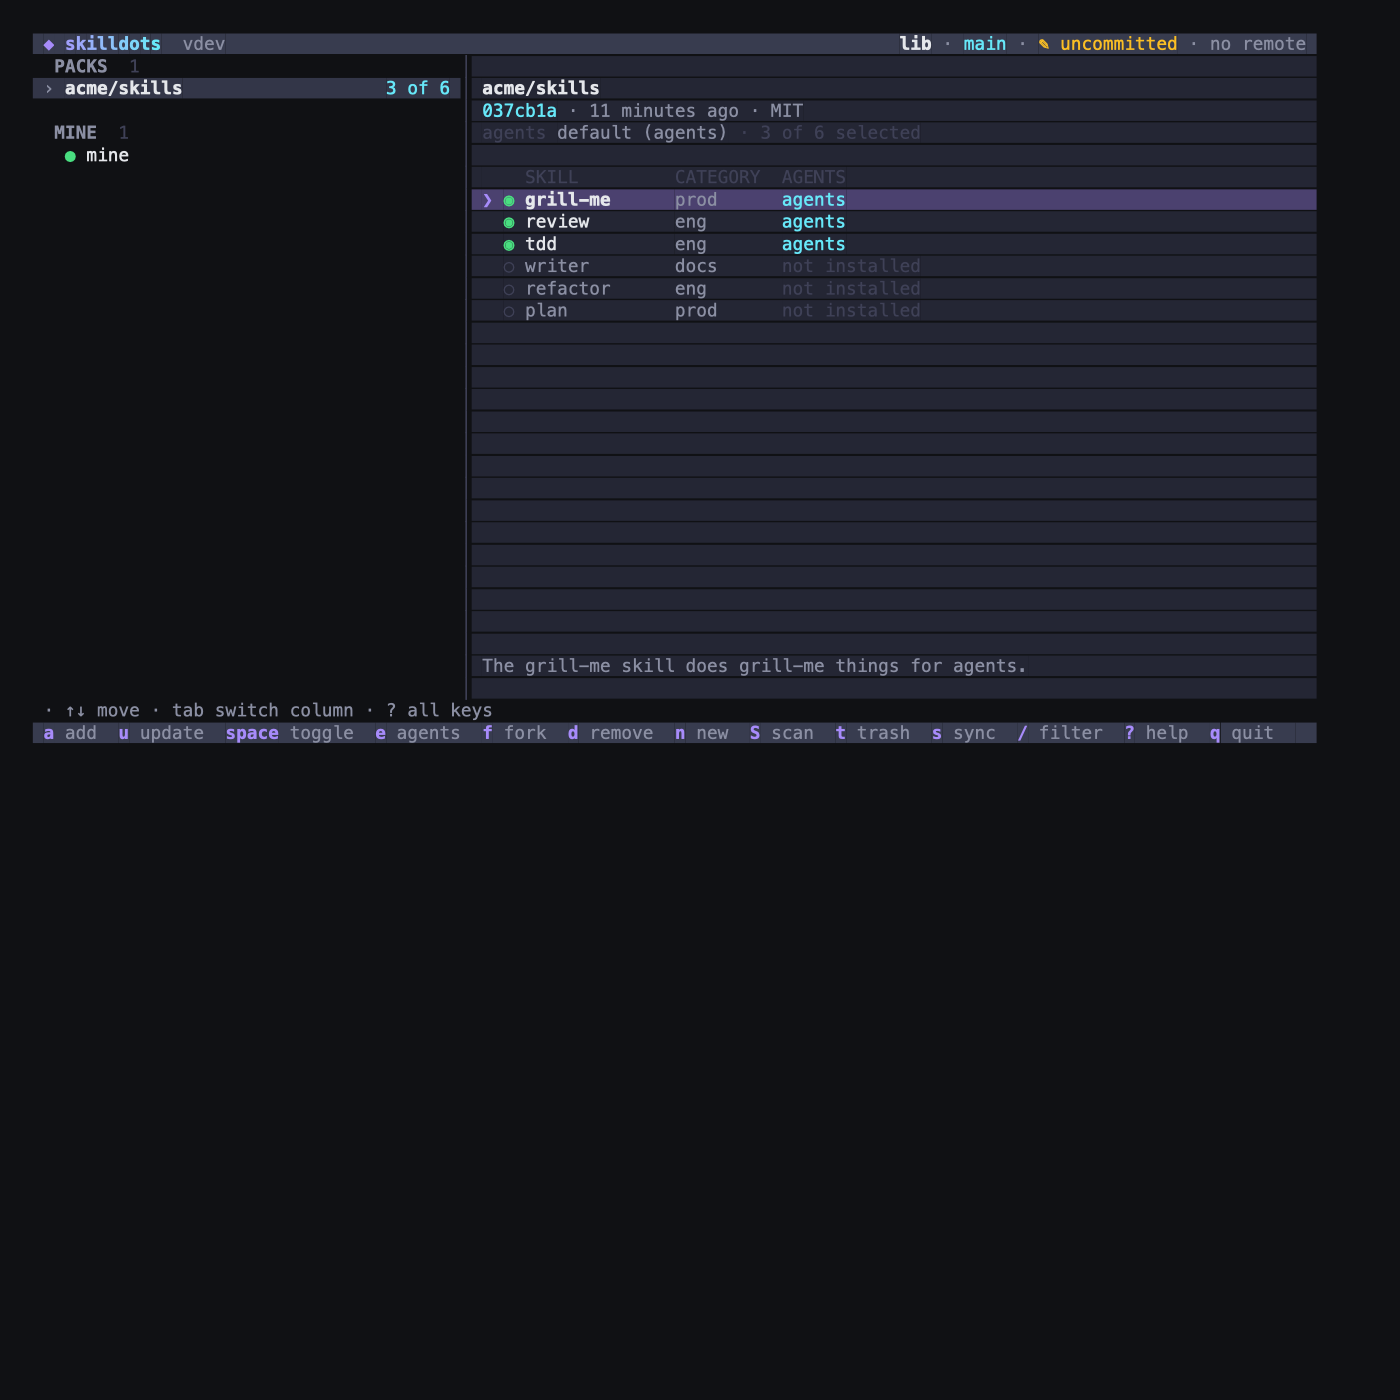
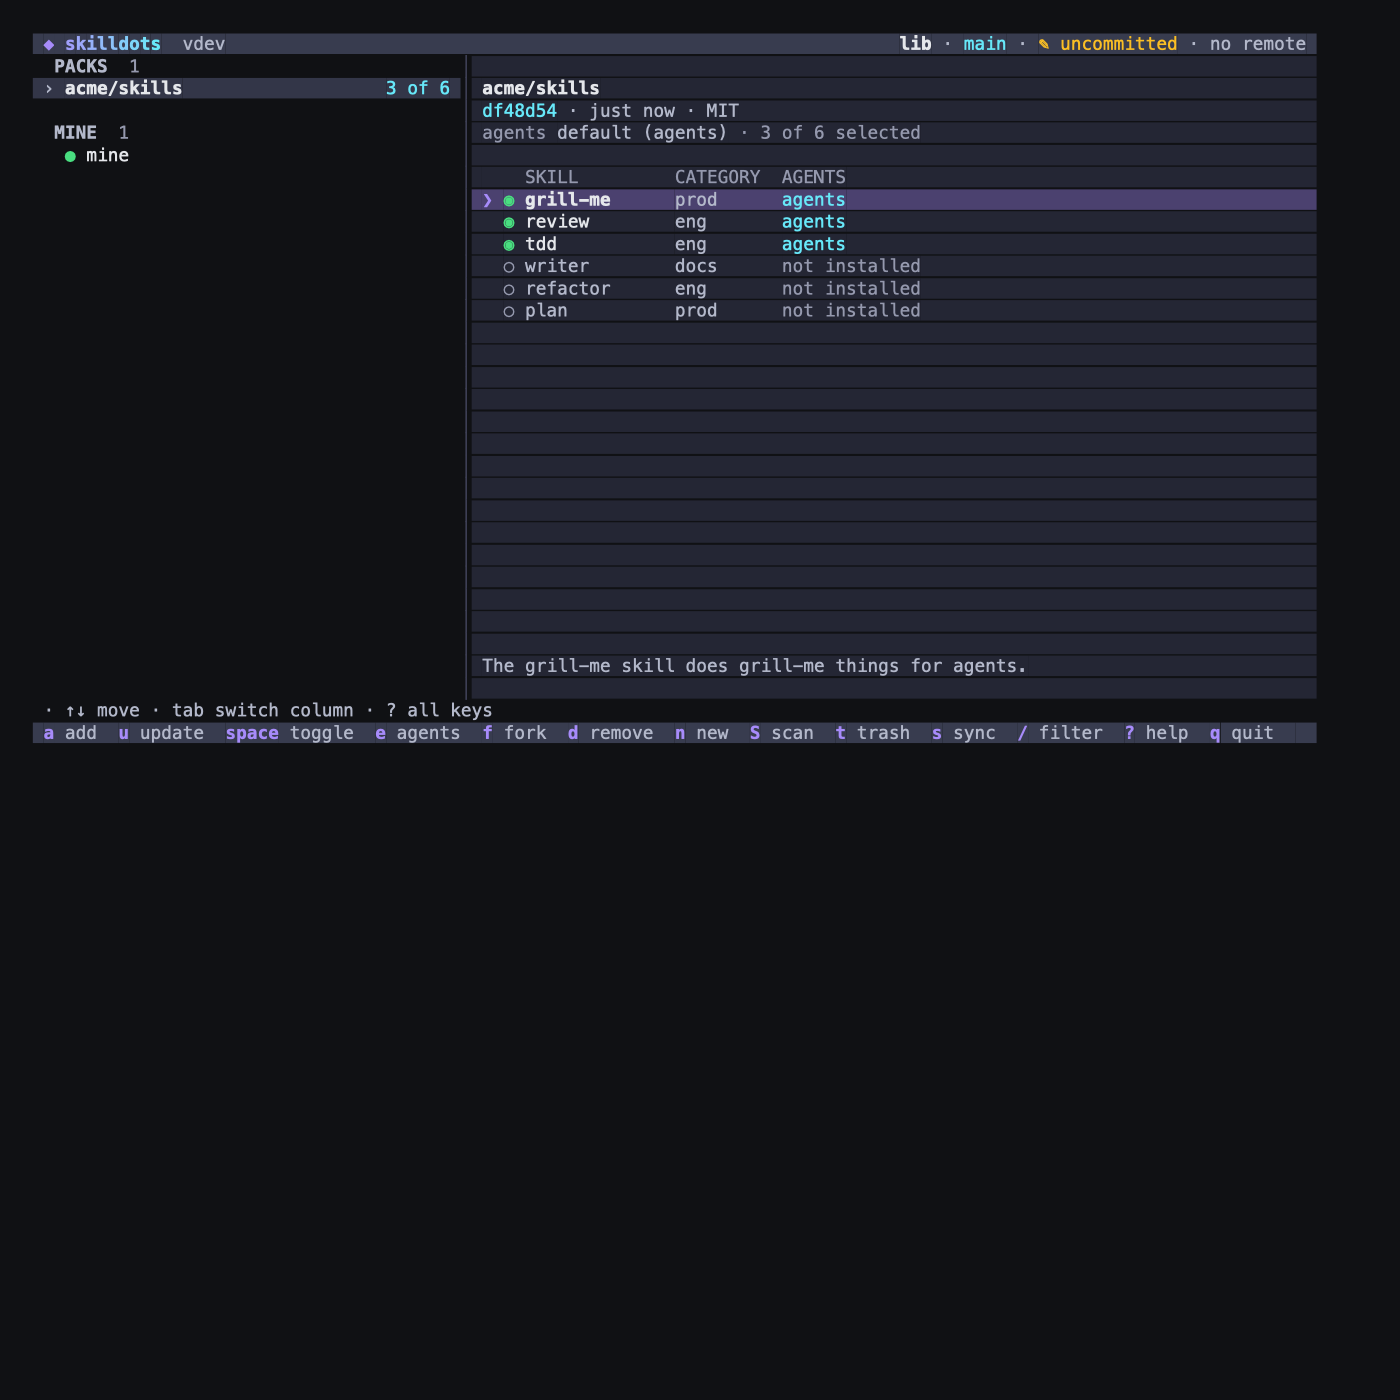
fix(theme): make muted and faint text readable in both palettes
Faint text measured 1.1-1.7:1 on the dark dashboard and 1.9-2.4:1 on
white; dark Muted fell to 2.9:1 on the selection. Borders, dividers and
the surface tint get their own Line colour (the old Faint values, so
the layers look the same), Muted and Faint become text-only colours of
at least 4.5:1 on every background they are drawn on, and highlighted
rows draw Faint as Muted. TestPaletteContrast checks this and the
Text > Muted > Faint order. Screenshots re-exported.

diff --git a/internal/tui/theme.go b/internal/tui/theme.go
@@ -14,7 +14,13 @@ import (
 // colours from internal/cli/ui.go so the dashboard, the huh menu and the
 // plain commands look like one product; tui never defines its own palette.
 type Theme struct {
+	// Text, Muted and Faint are text in decreasing importance; all three
+	// are readable (4.5:1) on every background below, except Faint on a
+	// highlighted row, which is drawn as Muted (see lift).
 	Accent, Cyan, Muted, Faint, OK, Warn, Err, Text lipgloss.Color
+	// Line is for what is not text: dividers, borders, and the tint the
+	// surfaces are mixed from.
+	Line lipgloss.Color
 	// Ink is the background end of the palette (text on accent buttons in
 	// the CLI theme): the darkest tone of a dark palette, the lightest of a
 	// light one. It anchors the surface shades below.
@@ -23,7 +29,7 @@ type Theme struct {
 	Light bool
 }
 
-// surfaces are derived from the palette: Ink tinted towards Faint or
+// surfaces are derived from the palette: Ink tinted towards Line or
 // Accent, so layers read as depth rather than as new colours.
 type surfaces struct {
 	bar, panel, sel, selDim, modal lipgloss.Color
@@ -38,23 +44,30 @@ func blend(a, b lipgloss.Color, t float64) lipgloss.Color {
 	return lipgloss.Color(ca.BlendLab(cb, t).Clamped().Hex())
 }
 
+// Backgrounds lists every background the dashboard puts text on: the
+// terminal's (taken to be Ink) and the derived surfaces.
+func (t Theme) Backgrounds() map[string]lipgloss.Color {
+	s := t.surfaces()
+	return map[string]lipgloss.Color{"ink": t.Ink, "bar": s.bar, "panel": s.panel, "sel": s.sel, "selDim": s.selDim, "modal": s.modal}
+}
+
 func (t Theme) surfaces() surfaces {
 	if t.Light {
-		// On white, a little of Faint already reads as a layer.
+		// On white, a little of Line already reads as a layer.
 		return surfaces{
-			bar:    blend(t.Ink, t.Faint, 0.40),
-			panel:  blend(t.Ink, t.Faint, 0.12),
+			bar:    blend(t.Ink, t.Line, 0.40),
+			panel:  blend(t.Ink, t.Line, 0.12),
 			sel:    blend(t.Ink, t.Accent, 0.16),
-			selDim: blend(t.Ink, t.Faint, 0.28),
-			modal:  blend(t.Ink, t.Faint, 0.24),
+			selDim: blend(t.Ink, t.Line, 0.28),
+			modal:  blend(t.Ink, t.Line, 0.24),
 		}
 	}
 	return surfaces{
-		bar:    blend(t.Ink, t.Faint, 0.85),
-		panel:  blend(t.Ink, t.Faint, 0.30),
+		bar:    blend(t.Ink, t.Line, 0.85),
+		panel:  blend(t.Ink, t.Line, 0.30),
 		sel:    blend(t.Ink, t.Accent, 0.38),
-		selDim: blend(t.Ink, t.Faint, 0.70),
-		modal:  blend(t.Ink, t.Faint, 0.55),
+		selDim: blend(t.Ink, t.Line, 0.70),
+		modal:  blend(t.Ink, t.Line, 0.55),
 	}
 }
 
@@ -67,7 +80,20 @@ type seg struct {
 	bold bool
 }
 
-func sg(s string, fg lipgloss.Color) seg  { return seg{s: s, fg: fg} }
+func sg(s string, fg lipgloss.Color) seg { return seg{s: s, fg: fg} }
+
+// lift is segs as drawn on a highlighted row (sel, selDim): Faint text
+// would not stand out from the highlight, so it is drawn as Muted.
+func lift(t Theme, segs []seg) []seg {
+	out := make([]seg, len(segs))
+	for i, s := range segs {
+		if s.fg == t.Faint {
+			s.fg = t.Muted
+		}
+		out[i] = s
+	}
+	return out
+}
 func sgb(s string, fg lipgloss.Color) seg { return seg{s: s, fg: fg, bold: true} }
 
 func segWidth(segs []seg) (n int) {

diff --git a/internal/cli/ui.go b/internal/cli/ui.go
@@ -27,7 +27,13 @@ func init() {
 // capabilities and disables colour when stdout is not a terminal or
 // NO_COLOR is set.
 type palette struct {
+	// Text, Muted and Faint are text in decreasing importance, each at
+	// least 4.5:1 on Ink and on the dashboard's surfaces (Faint only where
+	// it is drawn; TestPaletteContrast checks).
 	Accent, Cyan, Muted, Faint, OK, Warn, Err, Text lipgloss.Color
+	// Line is for what is not text: borders, dividers, the surfaces'
+	// tint and the unfocused button.
+	Line lipgloss.Color
 	// Ink is the background end of the scheme: text on accent buttons,
 	// and the base the dashboard derives its surfaces from.
 	Ink   lipgloss.Color
@@ -35,11 +41,10 @@ type palette struct {
 }
 
 var (
-	darkPalette = palette{Accent: "#A78BFA", Cyan: "#67E8F9", Muted: "#8B8FA3", Faint: "#3F4257",
+	darkPalette = palette{Accent: "#A78BFA", Cyan: "#67E8F9", Muted: "#B4B8CA", Faint: "#9599AE", Line: "#3F4257",
 		OK: "#4ADE80", Warn: "#FBBF24", Err: "#F87171", Text: "#E5E7EB", Ink: "#1A1B26"}
-	// Same hues, dark enough to read on white (each at least 4.5:1 except
-	// Faint, which is for what may be skipped).
-	lightPalette = palette{Accent: "#6D28D9", Cyan: "#0E7490", Muted: "#5B6072", Faint: "#A3A7B8",
+	// Same hues, dark enough to read on white.
+	lightPalette = palette{Accent: "#6D28D9", Cyan: "#0E7490", Muted: "#4A4F62", Faint: "#62677B", Line: "#A3A7B8",
 		OK: "#15803D", Warn: "#B45309", Err: "#B91C1C", Text: "#1E2030", Ink: "#FFFFFF", Light: true}
 )
 
@@ -64,7 +69,7 @@ func usePalette(p palette) {
 	sErr = lipgloss.NewStyle().Foreground(cErr)
 	sHead = lipgloss.NewStyle().Foreground(cMuted).Bold(true)
 	sBrand = lipgloss.NewStyle().Bold(true).Foreground(cAccent)
-	sCard = lipgloss.NewStyle().Border(lipgloss.RoundedBorder()).BorderForeground(cFaint).Padding(0, 2)
+	sCard = lipgloss.NewStyle().Border(lipgloss.RoundedBorder()).BorderForeground(p.Line).Padding(0, 2)
 	lipgloss.DefaultRenderer().SetHasDarkBackground(!p.Light)
 }
 
@@ -135,7 +140,7 @@ func theme() *huh.Theme {
 	t.Focused.UnselectedOption = t.Focused.UnselectedOption.Foreground(cText)
 	t.Focused.Option = t.Focused.Option.Foreground(cText)
 	t.Focused.FocusedButton = t.Focused.FocusedButton.Background(cAccent).Foreground(pal.Ink).Bold(true)
-	t.Focused.BlurredButton = t.Focused.BlurredButton.Background(cFaint).Foreground(cText)
+	t.Focused.BlurredButton = t.Focused.BlurredButton.Background(pal.Line).Foreground(cText)
 	t.Focused.TextInput.Cursor = t.Focused.TextInput.Cursor.Foreground(cAccent)
 	t.Focused.TextInput.Prompt = t.Focused.TextInput.Prompt.Foreground(cAccent)
 	t.Focused.TextInput.Placeholder = t.Focused.TextInput.Placeholder.Foreground(cFaint)

diff --git a/internal/cli/theme_test.go b/internal/cli/theme_test.go
@@ -1,8 +1,12 @@
 package cli
 
 import (
+	"math"
+	"strconv"
 	"testing"
 	"time"
+
+	"github.com/charmbracelet/lipgloss"
 )
 
 func TestSetupTheme(t *testing.T) {
@@ -64,5 +68,52 @@ func TestSetupTheme(t *testing.T) {
 	setupTheme("")
 	if asked != 1 {
 		t.Fatalf("asked %d times", asked)
+	}
+}
+
+// contrast is the WCAG contrast ratio of two #RRGGBB colours.
+func contrast(a, b lipgloss.Color) float64 {
+	lum := func(c lipgloss.Color) float64 {
+		var v [3]float64
+		for i := range v {
+			n, _ := strconv.ParseUint(string(c)[1+2*i:3+2*i], 16, 8)
+			x := float64(n) / 255
+			if x <= 0.03928 {
+				v[i] = x / 12.92
+			} else {
+				v[i] = math.Pow((x+0.055)/1.055, 2.4)
+			}
+		}
+		return 0.2126*v[0] + 0.7152*v[1] + 0.0722*v[2]
+	}
+	la, lb := lum(a), lum(b)
+	if la < lb {
+		la, lb = lb, la
+	}
+	return (la + 0.05) / (lb + 0.05)
+}
+
+// Secondary text (Muted) and the least important text (Faint) stay
+// readable — WCAG AA, 4.5:1 — on every background the CLI and the
+// dashboard paint them on, and keep their order: Faint is further from
+// Text than Muted. Faint is never drawn on the bars, and highlighted rows
+// (sel, selDim) draw it as Muted.
+func TestPaletteContrast(t *testing.T) {
+	faintOn := map[string]bool{"ink": true, "panel": true, "modal": true}
+	for name, p := range map[string]palette{"dark": darkPalette, "light": lightPalette} {
+		for bgName, bg := range dashboardTheme(p).Backgrounds() {
+			for fgName, fg := range map[string]lipgloss.Color{"Text": p.Text, "Muted": p.Muted, "Faint": p.Faint} {
+				if fgName == "Faint" && !faintOn[bgName] {
+					continue
+				}
+				if r := contrast(fg, bg); r < 4.5 {
+					t.Errorf("%s: %s %s on %s %s: %.2f:1", name, fgName, fg, bgName, bg, r)
+				}
+			}
+		}
+		if !(contrast(p.Text, p.Ink) > contrast(p.Muted, p.Ink) && contrast(p.Muted, p.Ink) > contrast(p.Faint, p.Ink)) {
+			t.Errorf("%s: Text, Muted, Faint should get quieter: %.2f, %.2f, %.2f on Ink", name,
+				contrast(p.Text, p.Ink), contrast(p.Muted, p.Ink), contrast(p.Faint, p.Ink))
+		}
 	}
 }

diff --git a/internal/tui/view.go b/internal/tui/view.go
@@ -97,7 +97,7 @@ func (m Model) View() string {
 	lw, rw := m.leftWidth(), m.rightWidth()
 	left := m.viewLeft(lw, body)
 	right := m.viewRight(rw, body)
-	div := lipgloss.NewStyle().Foreground(t.Faint).Render("│")
+	div := lipgloss.NewStyle().Foreground(t.Line).Render("│")
 	lines := make([]string, 0, m.h)
 	lines = append(lines, m.viewHeader())
 	bodyLines := make([]string, body)
@@ -239,7 +239,7 @@ func (m Model) viewLeft(w, h int) []string {
 			if sel {
 				name.bold = true
 			}
-			out = append(out, spread(w, bg, []seg{mark, name}, []seg{sg(count, t.Cyan), sg(" ", "")}))
+			out = append(out, spread(w, bg, lift(t, []seg{mark, name}), []seg{sg(count, t.Cyan), sg(" ", "")}))
 		case rowSkill:
 			dot := sg("○ ", t.Faint)
 			if r.skill.Enabled() {
@@ -256,7 +256,11 @@ func (m Model) viewLeft(w, h int) []string {
 			case r.skill.Missing:
 				right = []seg{sg("missing ", t.Warn)}
 			}
-			out = append(out, spread(w, bg, []seg{mark, dot, name}, right))
+			left := []seg{mark, dot, name}
+			if sel {
+				left, right = lift(t, left), lift(t, right)
+			}
+			out = append(out, spread(w, bg, left, right))
 		}
 	}
 	for len(out) < h-1 {
@@ -443,7 +447,11 @@ func (m Model) packView(p Pack, w, h int) []string {
 		}
 		name := sg(fit(sk.LinkName, nameW)+"  ", nameFg)
 		name.bold = i == m.right.cur && m.focus == focusRight
-		out = append(out, paint(w, rbg, sg(" ", ""), mark, icon, name, sg(fit(cat, catW)+"  ", t.Muted), agents))
+		segs := []seg{sg(" ", ""), mark, icon, name, sg(fit(cat, catW)+"  ", t.Muted), agents}
+		if rbg != bg {
+			segs = lift(t, segs)
+		}
+		out = append(out, paint(w, rbg, segs...))
 	}
 	// Pad the list area, then scroll position and the description of the
 	// skill under the cursor.

diff --git a/internal/cli/root.go b/internal/cli/root.go
@@ -183,8 +183,11 @@ func dashboardLibrary(simple bool) (string, bool) {
 }
 
 func runDashboard(root string) error {
-	return tui.Run(tui.Options{Root: root, Version: Version, Theme: tui.Theme{
-		Accent: cAccent, Cyan: cCyan, Muted: cMuted, Faint: cFaint, OK: cOK, Warn: cWarn, Err: cErr, Text: cText,
-		Ink: pal.Ink, Light: pal.Light,
-	}, Input: termbg.Unread()})
+	return tui.Run(tui.Options{Root: root, Version: Version, Theme: dashboardTheme(pal), Input: termbg.Unread()})
+}
+
+// dashboardTheme is p as the dashboard's palette.
+func dashboardTheme(p palette) tui.Theme {
+	return tui.Theme{Accent: p.Accent, Cyan: p.Cyan, Muted: p.Muted, Faint: p.Faint, OK: p.OK, Warn: p.Warn, Err: p.Err, Text: p.Text,
+		Line: p.Line, Ink: p.Ink, Light: p.Light}
 }

diff --git a/internal/tui/overlay.go b/internal/tui/overlay.go
@@ -417,6 +417,9 @@ func (o *overlay) renderDesc(w, h int, t Theme, s surfaces, desc string) []strin
 					segs = append(segs, o.box(i, t))
 				}
 				segs = append(segs, sgb(it.label, t.Muted), sg("  "+it.detail, t.Faint))
+				if rbg != bg {
+					segs = lift(t, segs)
+				}
 				lines = append(lines, paint(2, bg)+paint(w-2, rbg, segs...))
 				continue
 			}
@@ -433,6 +436,9 @@ func (o *overlay) renderDesc(w, h int, t Theme, s surfaces, desc string) []strin
 				lfg = t.Muted
 			}
 			segs = append(segs, sg(fit(it.label, labelW)+"  ", lfg), sg(detail, dfg))
+			if rbg != bg {
+				segs = lift(t, segs)
+			}
 			lines = append(lines, paint(2, bg)+paint(w-2, rbg, segs...))
 		}
 		if n := len(o.items); n > avail {

diff --git a/internal/tui/model_test.go b/internal/tui/model_test.go
@@ -18,7 +18,7 @@ import (
 	"github.com/Maybe404/skilldots/internal/targets"
 )
 
-var testTheme = Theme{Accent: "#A78BFA", Cyan: "#67E8F9", Muted: "#8B8FA3", Faint: "#3F4257", OK: "#4ADE80",
+var testTheme = Theme{Accent: "#A78BFA", Cyan: "#67E8F9", Muted: "#B4B8CA", Faint: "#9599AE", Line: "#3F4257", OK: "#4ADE80",
 	Warn: "#FBBF24", Err: "#F87171", Text: "#E5E7EB", Ink: "#1A1B26"}
 
 func vendored(repo, name, cat string, agents ...string) Skill {

diff --git a/docs/design.md b/docs/design.md
@@ -105,7 +105,7 @@ targets 继承：全局 default → pack → skill。`targets = []` 表示保留
 
 **共享流程**：所有写操作在 `internal/app`（targets 编辑与继承、取消选择、add、fork、remove/purge、enable/disable、new、adopt、update、apply、trash、sync 的 git 操作）。`internal/cli` 和 `internal/tui` 只负责收集输入和展示结果，`internal/app` 的测试用同一夹具分别走两条路径并比对清单、锁、文件和链接。
 
-**配色**：两套调色板同一组色相（紫色强调、青色、绿/黄/红状态色）。`auto` 时向终端发 OSC 11 加 DA1（所有终端都回 DA1，所以不支持 OSC 11 的终端也立即结束），300ms 无回应按深色；`--json`、`NO_COLOR`、`TERM=dumb`、stdout 非终端、后台进程组时不询问。询问期间终端处于 cbreak（关回显和行缓冲，保留 ISIG：ctrl+c、ctrl+\ 照常中断，退出前恢复终端模式）；切换后若已有待读输入（用户预先敲的键，含未回车的半行）就不询问、按深色，键留给后续读取者；等待期间读到的非回复字节由仪表盘在启动时按序重放（`termbg.Unread`）。问答菜单和普通命令拿不到这些字节：不回应的终端上，在这 300ms 内敲的键对它们会丢失。Bubble Tea 的包 init 会让 termenv 询问背景并最多等 5 秒，所以 `internal/termbg` 的 init 抢先设定背景值（Go 按导入路径顺序初始化，`github.com/Maybe404/…` 排在 `github.com/charmbracelet/…` 之前）。
+**配色**：两套调色板同一组色相（紫色强调、青色、绿/黄/红状态色）。文字分 Text、Muted、Faint 三级，依次变淡，Muted 和 Faint 在终端底色和仪表盘各层底色上都不低于 4.5:1（`TestPaletteContrast` 检查）；选中行上 Faint 按 Muted 画。边框、分隔线和各层底色的色调用单独的 Line 色，不承载文字。`auto` 时向终端发 OSC 11 加 DA1（所有终端都回 DA1，所以不支持 OSC 11 的终端也立即结束），300ms 无回应按深色；`--json`、`NO_COLOR`、`TERM=dumb`、stdout 非终端、后台进程组时不询问。询问期间终端处于 cbreak（关回显和行缓冲，保留 ISIG：ctrl+c、ctrl+\ 照常中断，退出前恢复终端模式）；切换后若已有待读输入（用户预先敲的键，含未回车的半行）就不询问、按深色，键留给后续读取者；等待期间读到的非回复字节由仪表盘在启动时按序重放（`termbg.Unread`）。问答菜单和普通命令拿不到这些字节：不回应的终端上，在这 300ms 内敲的键对它们会丢失。Bubble Tea 的包 init 会让 termenv 询问背景并最多等 5 秒，所以 `internal/termbg` 的 init 抢先设定背景值（Go 按导入路径顺序初始化，`github.com/Maybe404/…` 排在 `github.com/charmbracelet/…` 之前）。
 
 ## 关键规则
 
